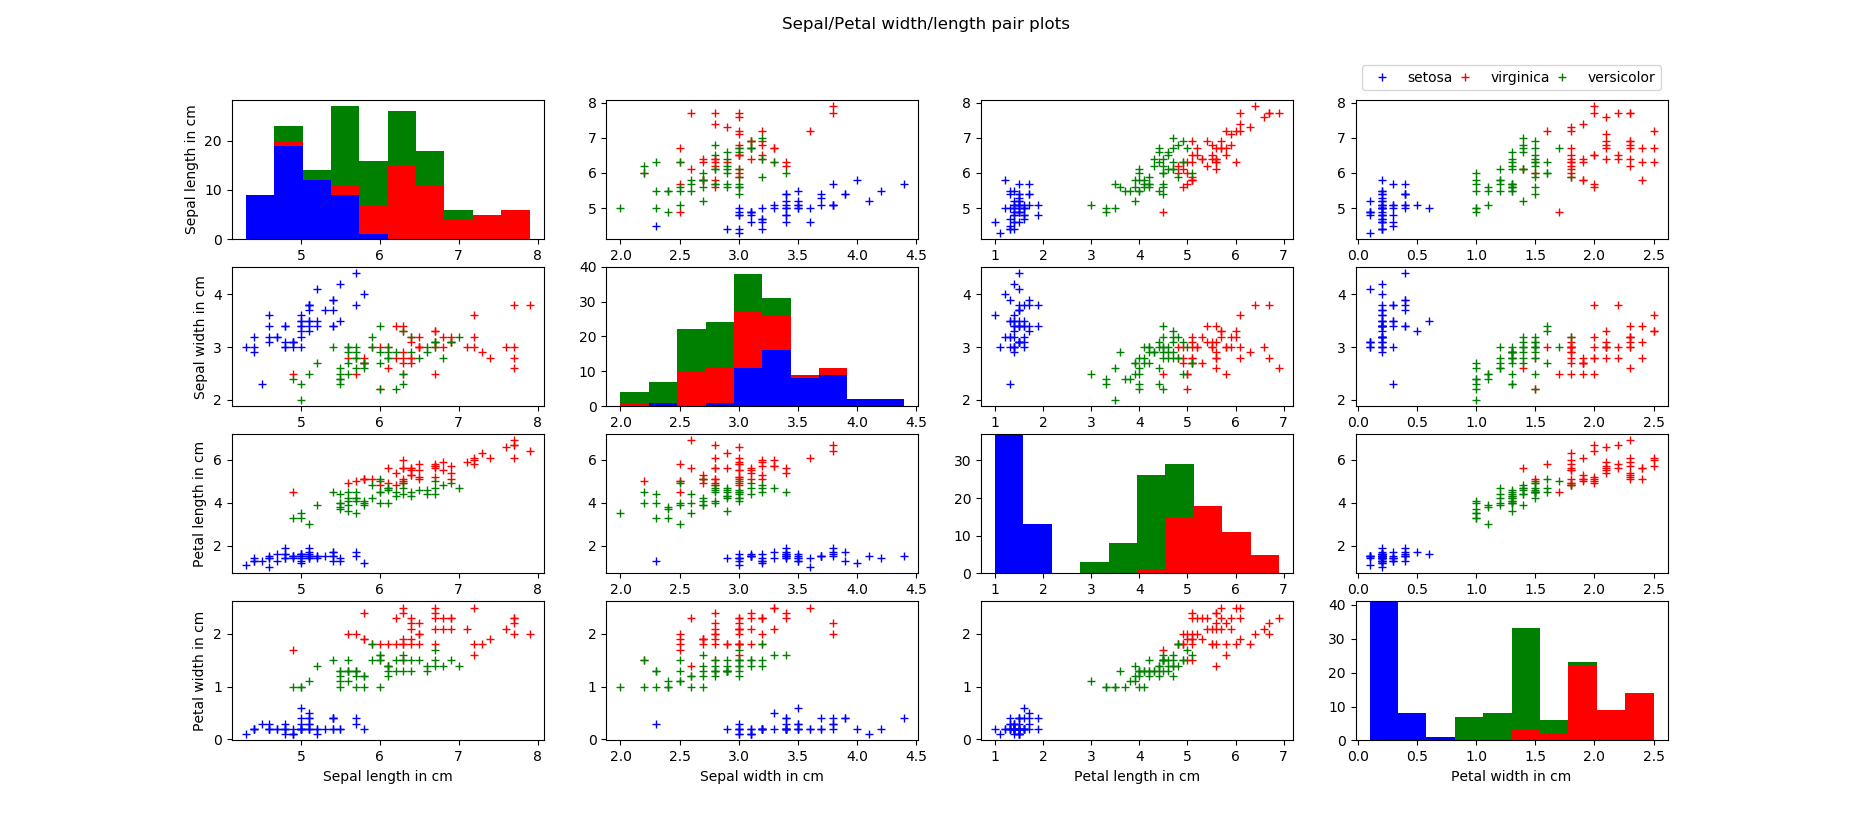
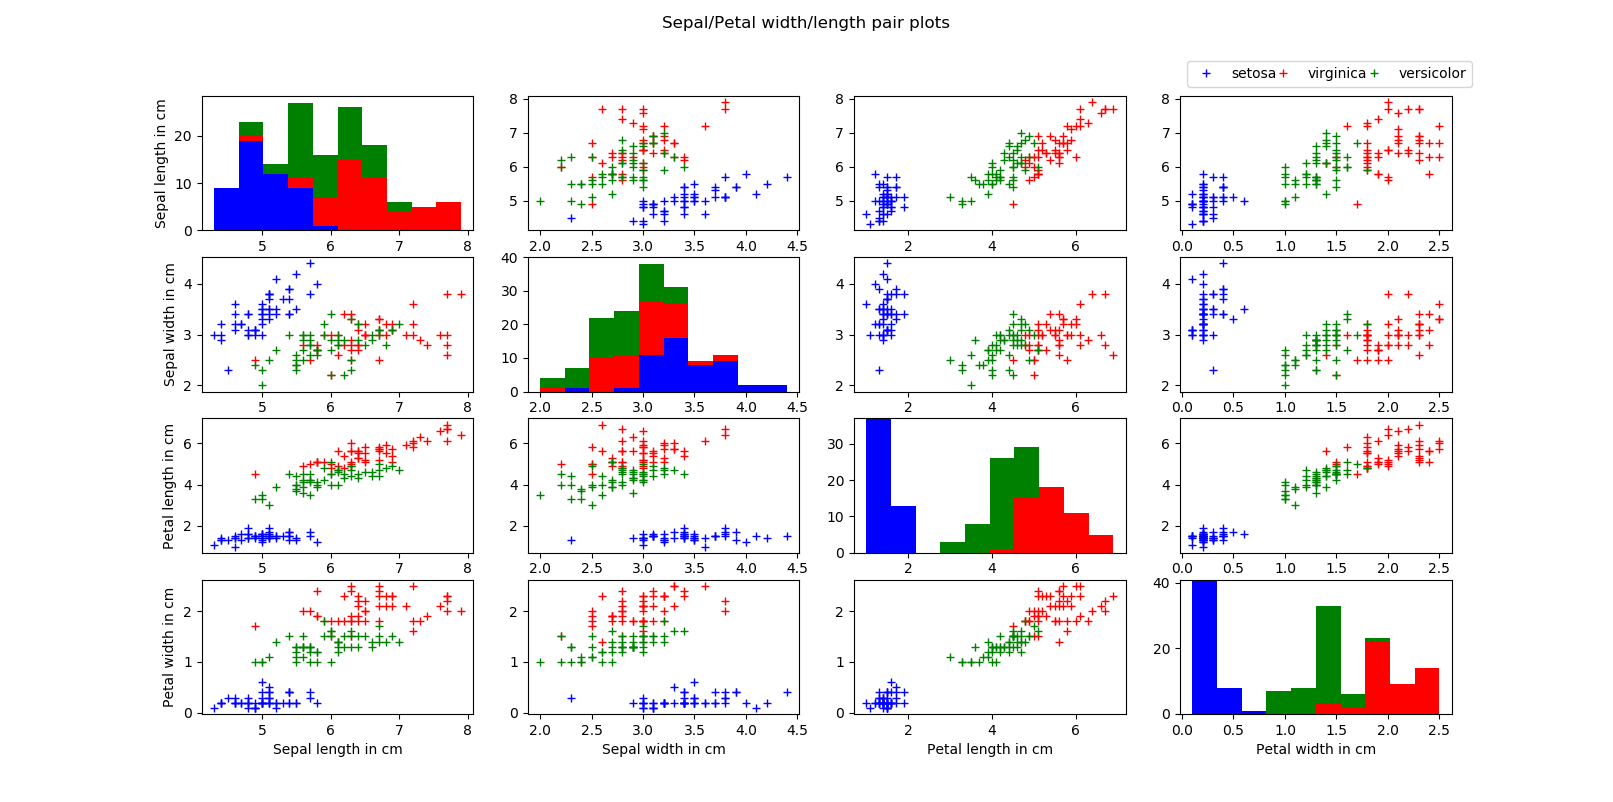
corrected legend box after updating pandas

diff --git a/iris.py b/iris.py
@@ -108,7 +108,7 @@ plot.plot(setosa['petal_width'].values,setosa['sepal_length'].values,'b+',label=
 plot.plot(vi['petal_width'].values,vi['sepal_length'].values,'r+',label='virginica')
 plot.plot(ve['petal_width'].values,ve['sepal_length'].values,'g+',label='versicolor')
 # Adapted https://stackoverflow.com/a/43439132
-plot.legend(bbox_to_anchor=(0., 1.02, 1, .2), loc="lower left", mode="expand", ncol=3)
+plot.legend(bbox_to_anchor=(0., 1.02, 1.1, .2), loc="lower left", mode="expand", ncol=3)
 
 plot.subplot(4,4,8)
 plot.plot(setosa['petal_width'].values,setosa['sepal_width'].values,'b+',vi['petal_width'].values,vi['sepal_width'].values,'r+',ve['petal_width'].values,ve['sepal_width'].values,'g+')
